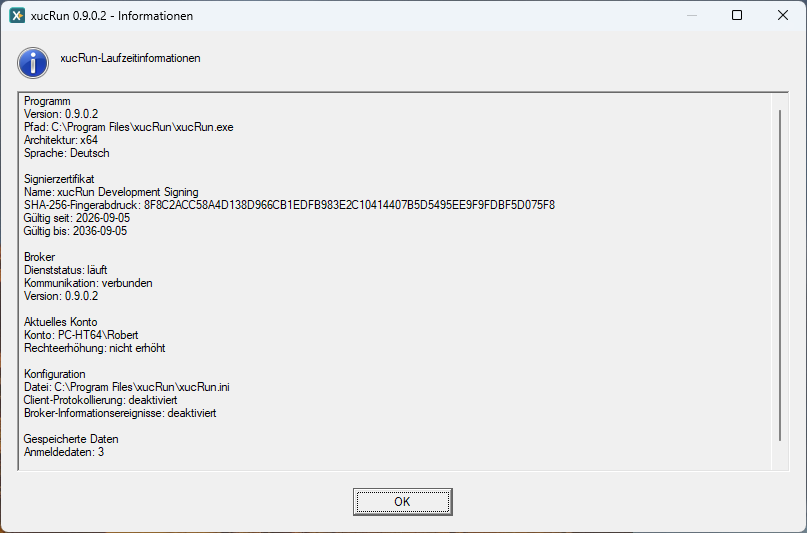
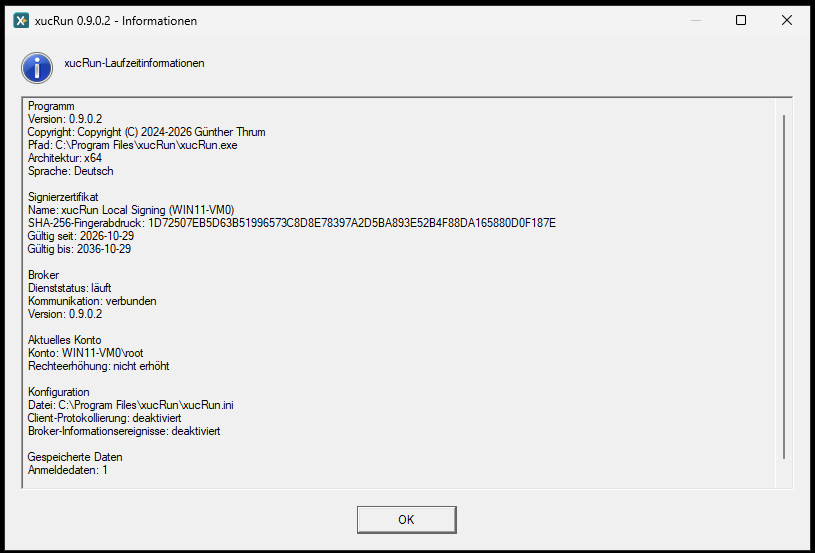
Refine security diagnostics wording
Clarify the scope of diagnostics, cleanup, credential storage, and manual removal guidance. Refresh the English and German documentation screenshots.

Changed region(s): [[0.0, 0.0, 1.0, 1.0]]

diff --git a/xucRunCoreTests/BrokerContractsTests.cpp b/xucRunCoreTests/BrokerContractsTests.cpp
@@ -2716,7 +2716,7 @@ namespace
 			parsedRequest.requestId != request.requestId ||
 			parsedRequest.language != request.language)
 		{
-			std::cerr << "security audit request round trip failed\n";
+			std::cerr << "security diagnostics request round trip failed\n";
 			failures++;
 		}
 		auto invalidLanguageFrame = requestFrame;
@@ -2724,7 +2724,7 @@ namespace
 		if (xucrun::broker::DeserializeSecurityAuditRequest(
 			invalidLanguageFrame, parsedRequest))
 		{
-			std::cerr << "unknown security audit language accepted\n";
+			std::cerr << "unknown security diagnostics language accepted\n";
 			failures++;
 		}
 
@@ -2740,27 +2740,27 @@ namespace
 			parsedResult.findingCount != result.findingCount ||
 			parsedResult.report != result.report)
 		{
-			std::cerr << "security audit result round trip failed\n";
+			std::cerr << "security diagnostics result round trip failed\n";
 			failures++;
 		}
 		auto invalid = resultFrame;
 		invalid.pop_back();
 		if (xucrun::broker::DeserializeSecurityAuditResult(invalid, parsedResult))
 		{
-			std::cerr << "truncated security audit result accepted\n";
+			std::cerr << "truncated security diagnostics result accepted\n";
 			failures++;
 		}
 		invalid = resultFrame;
 		invalid[5] = 0xFF;
 		if (xucrun::broker::DeserializeSecurityAuditResult(invalid, parsedResult))
 		{
-			std::cerr << "unknown security audit status accepted\n";
+			std::cerr << "unknown security diagnostics status accepted\n";
 			failures++;
 		}
 		result.report.assign(xucrun::broker::MaximumSecurityAuditReportLength + 1, L'x');
 		if (!xucrun::broker::SerializeSecurityAuditResult(result).empty())
 		{
-			std::cerr << "oversized security audit report serialized\n";
+			std::cerr << "oversized security diagnostics report serialized\n";
 			failures++;
 		}
 	}

diff --git a/xucRun/main.cpp b/xucRun/main.cpp
@@ -509,7 +509,7 @@ int WINAPI wWinMain(_In_ HINSTANCE hInstance, _In_opt_ HINSTANCE hPrevInstance, 
 	else if (initialArgument == L"/info")
 		processMode = L"runtime information command";
 	else if (initialArgument == L"/audit")
-		processMode = L"security audit command";
+		processMode = L"security diagnostics command";
 	else if (initialArgument == L"/admin-status")
 		processMode = L"administrative status launcher";
 	else if (initialArgument == L"/backup" ||

diff --git a/xucRunBroker/main.cpp b/xucRunBroker/main.cpp
@@ -443,7 +443,7 @@ namespace
 		if (aclFindings.empty())
 		{
 			LogEvent(EVENTLOG_INFORMATION_TYPE,
-				L"Startup security audit for broker, client, installed Tray resources, "
+				L"Startup security diagnostics for broker, client, installed Tray resources, "
 				L"configuration, and broker store succeeded.");
 		}
 		else

diff --git a/README.de.md b/README.de.md
@@ -913,7 +913,7 @@ Anmeldedaten, gespeicherten Argumente oder wiederverwendbare Autorisierung.
 | `xucRun.exe /backup` | lokale Datensicherungen verwalten |
 | `xucRun.exe /audit` | Sicherheitsdiagnose ausführen |
 | `xucRun.exe /enable-broker` | einen deaktivierten Broker wieder aktivieren |
-| `xucRun.exe /clear-all` | alle gespeicherten xucRun-Daten löschen |
+| `xucRun.exe /clear-all` | gespeicherte Anmeldedaten, Freigaben, Sicherheitsmerkmale und zugehörige Metadaten löschen |
 | `xucRun.exe /help` | vollständige Hilfe anzeigen |
 
 `/hidden` verbirgt das unmittelbar gestartete Zielprogramm. `/hidden-monitor` überwacht zusätzlich
@@ -941,9 +941,11 @@ Beim Löschen eines Kontos entfernt xucRun auch dessen kontogebundene Freigaben.
 Freigaben für alle Konten bleiben bestehen.
 
 Mit `/resetapprovals` können einzelne oder mehrere Freigaben ausgewählt und entfernt werden.
-`/clear-all` ist die administrative Gesamtbereinigung. Der Befehl muss erhöht gestartet werden und
-löscht nach ausdrücklicher Bestätigung alle xucRun-Anmeldedaten, Freigaben, Sicherheitsmerkmale und
-zugehörigen Metadaten aller Windows-Benutzer dieses Rechners.
+`/clear-all` ist der administrative Bereinigungsbefehl für aktive, vom Broker verwaltete Daten. Der
+Befehl muss erhöht gestartet werden und löscht nach ausdrücklicher Bestätigung alle
+xucRun-Anmeldedaten, Freigaben, Sicherheitsmerkmale und zugehörigen Metadaten aller
+Windows-Benutzer dieses Rechners. Lokale Sicherungen bleiben erhalten und können separat mit
+`/backup-delete-all` gelöscht werden.
 
 | Gespeicherte Anmeldedaten löschen | Freigaben zurücksetzen |
 |:---:|:---:|
@@ -983,7 +985,7 @@ Die Deinstallation entfernt auch die lokal gespeicherten xucRun-Datensicherungen
 Gültigkeitszeitraum des Signierzertifikats, Brokerstatus, aktuelles Konto und wirksame
 Konfiguration. `xucRun.exe /audit` prüft sicherheitsrelevante Eigenschaften der laufenden
 Installation und nennt bei gültiger Clientsignatur ebenfalls das geprüfte Zertifikat. Ist xucRun
-Tray separat installiert, prüft das Audit zusätzlich dessen
+Tray separat installiert, prüft die Diagnose zusätzlich dessen
 installierte Dateien und Signaturen, Deinstallationsregistrierung und benutzerbezogene
 Autostartaufgaben. Wurde der Brokerdienst deaktiviert, kann er mit
 `xucRun.exe /enable-broker` wieder aktiviert werden. `xucRun.exe /help` zeigt die vollständige
@@ -995,9 +997,9 @@ wirksam. Das kann insbesondere das integrierte Konto `Administrator` betreffen.
 
 ![Blockierter kontenübergreifender erhöhter Start wegen fehlender UAC-Bestätigung](docs/de/images/cross-account-elevation-blocked.png)
 
-| Laufzeitinformationen | Sicherheitsaudit |
+| Laufzeitinformationen | Sicherheitsdiagnose |
 |:---:|:---:|
-| ![xucRun-Laufzeitinformationen](docs/de/images/runtime-information.png) | ![xucRun-Sicherheitsaudit](docs/de/images/security-audit.png) |
+| ![xucRun-Laufzeitinformationen](docs/de/images/runtime-information.png) | ![xucRun-Sicherheitsdiagnose](docs/de/images/security-audit.png) |
 
 Für eine weitergehende Fehlerdiagnose kann über `ClientLogDirectory` das Client-Dateilog mit
 Dateien im Format `xucRun_YYYYMMDD.log` aktiviert werden. Warnungen und Fehler des Brokers werden
@@ -1154,8 +1156,8 @@ Die [Buildanleitung](docs/de/BUILDING.md) beschreibt die Erzeugung eines xucRun-
 Quellcode. Die anschließende lokale Testsignierung, Installation, Aktualisierung und Deinstallation
 stehen in der [Installationsanleitung](docs/de/INSTALLATION.md). Ist die normale Deinstallation
 nicht verfügbar, listet die Anleitung zur
-[manuellen Entfernung](docs/de/MANUAL_REMOVAL.md) alle xucRun-eigenen Artefakte und deren sichere
-Entfernungsreihenfolge auf.
+[manuellen Entfernung](docs/de/MANUAL_REMOVAL.md) die vom Verfahren erfassten xucRun-eigenen
+Artefakte und die erforderliche Entfernungsreihenfolge.
 
 ## Lizenz
 

diff --git a/README.md b/README.md
@@ -854,7 +854,7 @@ authorization.
 | `xucRun.exe /backup` | manage local backups |
 | `xucRun.exe /audit` | run security diagnostics |
 | `xucRun.exe /enable-broker` | re-enable a disabled broker |
-| `xucRun.exe /clear-all` | delete all stored xucRun data |
+| `xucRun.exe /clear-all` | delete stored credentials, approvals, security identifiers, and associated metadata |
 | `xucRun.exe /help` | show complete help |
 
 `/hidden` hides the directly started target program. `/hidden-monitor` also monitors its exit code
@@ -881,9 +881,10 @@ deletion. Deleting an account also removes approvals bound to that account. Prof
 for all accounts remain in place.
 
 Use `/resetapprovals` to select and remove individual or multiple approvals. `/clear-all` is the
-administrative full cleanup command. It must be run elevated and, after explicit confirmation,
-deletes all xucRun credentials, approvals, security identifiers, and associated metadata for every
-Windows user on the computer.
+administrative cleanup command for active broker-managed data. It must be run elevated and, after
+explicit confirmation, deletes all xucRun credentials, approvals, security identifiers, and
+associated metadata for every Windows user on the computer. Local backups are retained and can be
+removed separately with `/backup-delete-all`.
 
 | Delete stored credentials | Reset approvals |
 |:---:|:---:|
@@ -923,7 +924,7 @@ Uninstalling xucRun also removes locally stored xucRun backups.
 SHA-256 fingerprint and validity period, broker status, current account, and effective
 configuration. `xucRun.exe /audit` checks security-relevant properties of the running installation
 and also identifies the verified certificate when the client signature is valid. If xucRun Tray
-is installed separately, the audit also checks its installed
+is installed separately, the diagnostics also check its installed
 files and signatures, uninstall registration, and per-user autostart tasks. If the broker service
 was disabled,
 `xucRun.exe /enable-broker` enables it again. `xucRun.exe /help` displays the complete local
@@ -935,9 +936,9 @@ This can particularly affect the built-in `Administrator` account.
 
 ![Elevated cross-account launch blocked because UAC confirmation is unavailable](docs/en/images/cross-account-elevation-blocked.png)
 
-| Runtime information | Security audit |
+| Runtime information | Security diagnostics |
 |:---:|:---:|
-| ![xucRun runtime information](docs/en/images/runtime-information.png) | ![xucRun security audit](docs/en/images/security-audit.png) |
+| ![xucRun runtime information](docs/en/images/runtime-information.png) | ![xucRun security diagnostics](docs/en/images/security-audit.png) |
 
 For additional diagnostics, `ClientLogDirectory` can be configured to enable client log files
 named `xucRun_YYYYMMDD.log`. Broker warnings and errors are always written to the Windows
@@ -1079,8 +1080,8 @@ process and supported versions are documented in [SECURITY.md](SECURITY.md).
 The [build instructions](docs/en/BUILDING.md) describe how to create an xucRun package from source.
 The [installation instructions](docs/en/INSTALLATION.md) cover local test signing, installation,
 updates, and uninstall. If the normal uninstaller is unavailable, the
-[manual removal instructions](docs/en/MANUAL_REMOVAL.md) list all xucRun-owned artifacts and the
-safe removal order.
+[manual removal instructions](docs/en/MANUAL_REMOVAL.md) document the xucRun-owned artifacts
+covered by the procedure and the required removal sequence.
 
 ## License
 

diff --git a/docs/de/INSTALLATION.md b/docs/de/INSTALLATION.md
@@ -140,9 +140,9 @@ powershell.exe -NoProfile -ExecutionPolicy Bypass `
 ```
 
 Verwenden Sie die Anleitung zur [manuellen Entfernung](MANUAL_REMOVAL.md) nur, wenn die normale
-Deinstallation nicht verfügbar ist oder nicht abgeschlossen werden kann. Sie inventarisiert alle
-xucRun-eigenen Artefakte und erhält die erforderliche Reihenfolge, in der die vom Broker
-verwalteten Geheimnisse vor Dienst und Dateien gelöscht werden.
+Deinstallation nicht verfügbar ist oder nicht abgeschlossen werden kann. Sie dokumentiert die vom
+Verfahren erfassten xucRun-eigenen Artefakte und erhält die erforderliche Reihenfolge, in der die
+vom Broker verwalteten Geheimnisse vor Dienst und Dateien gelöscht werden.
 
 > **Achtung:** Die Deinstallation löscht unwiderruflich alle von xucRun gespeicherten
 > Anmeldedaten und Freigaben aller Windows-Benutzer sowie sämtliche lokalen xucRun-Sicherungen,

diff --git a/docs/en/INSTALLATION.md b/docs/en/INSTALLATION.md
@@ -133,8 +133,9 @@ powershell.exe -NoProfile -ExecutionPolicy Bypass `
 ```
 
 Use the [manual removal instructions](MANUAL_REMOVAL.md) only if the normal uninstaller is
-unavailable or cannot complete. They inventory all xucRun-owned artifacts and preserve the
-required order for purging broker-managed secrets before deleting the service and files.
+unavailable or cannot complete. They document the xucRun-owned artifacts covered by the procedure
+and preserve the required order for purging broker-managed secrets before deleting the service and
+files.
 
 > **Warning:** Uninstall permanently deletes all credentials and approvals stored by xucRun for
 > every Windows user, together with all local xucRun backups, security markers, and associated
